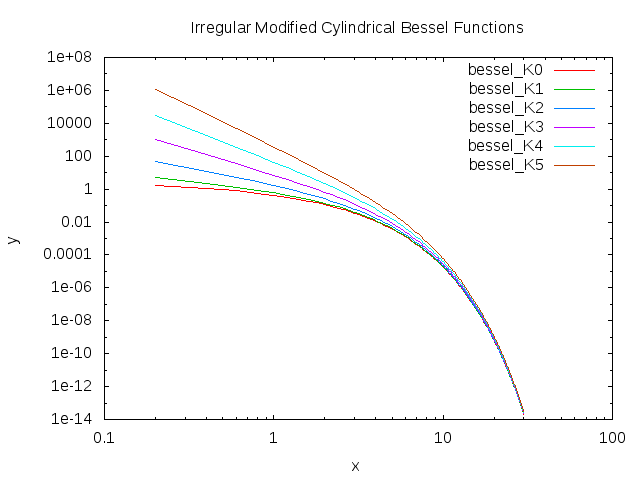
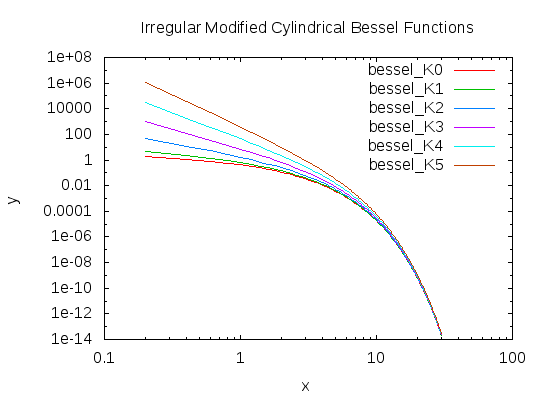
fix bessel demo

diff --git a/gsl/bessel/mkmd.rb b/gsl/bessel/mkmd.rb
@@ -3,12 +3,14 @@ repo = "numo-gnuplot-demo"
 dir  = `git rev-parse --show-prefix`.chomp
 
 open("README.md","w") do |f|
+  f.puts "## Ruby script\n\n"
   Dir.glob("plot*.rb") do |src|
-    f.puts "## #{dir}\n\n```ruby"
+    f.puts "* #{dir}#{src}\n\n```ruby"
     f.puts IO.read(src)
     f.puts "```\n\n"
   end
 
+  f.puts "## Result plot\n\n"
   Dir.glob("*.png") do |img|
     link = "https://raw.github.com/#{user}/#{repo}/master/#{dir}#{img}"
     f.puts "![#{img}](#{link})"

diff --git a/gsl/bessel/plot.rb b/gsl/bessel/plot.rb
@@ -8,7 +8,8 @@ def gplot(plot_args,setting,fn)
     set setting
     plot(*plot_args)
     pause mouse:"any"
-    output fn+".png"
+    output fn+".png",size:[540,400]
+    #output fn+".ps","color"
     reset
   end
 end
